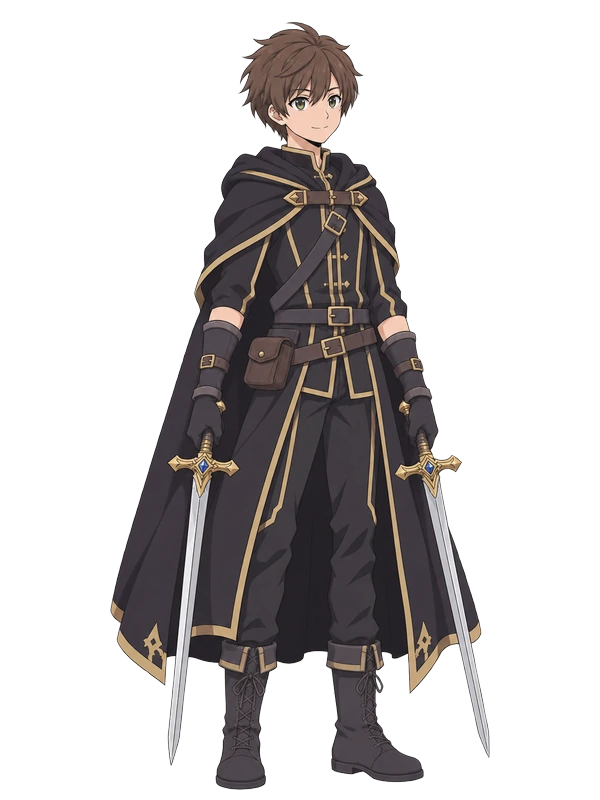
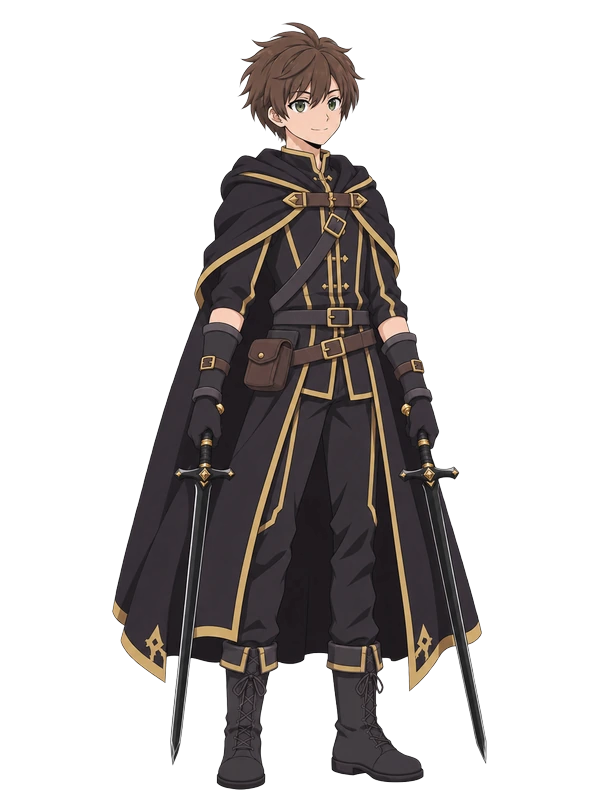
雙劍士美術重畫：兩把黑劍、突進斬姿勢（職業仍隱藏）
Claude-Session: https://claude.ai/code/session_014oWtzJimN2qi28cgaLB2Wn

diff --git a/sw.js b/sw.js
@@ -1,4 +1,4 @@
-const C='ao-art-v85';
+const C='ao-art-v86';
 self.addEventListener('install',e=>self.skipWaiting());
 self.addEventListener('activate',e=>e.waitUntil(caches.keys().then(ks=>Promise.all(ks.filter(k=>k.startsWith('ao-art')&&k!==C).map(k=>caches.delete(k)))).then(()=>self.clients.claim())));
 const get=(req,n)=>fetch(req).catch(err=>n>0?new Promise(r=>setTimeout(r,800)).then(()=>get(req,n-1)):Promise.reject(err));

diff --git a/DEV_NOTES.md b/DEV_NOTES.md
@@ -447,3 +447,4 @@
 
 - 2026-11-26：使用者要求雙劍士**先隱藏不上線**。`CLS.dual.hide=1`，`CLSV()` 過濾創角與排行篩選；程式與美術都留著，要開放時拿掉 `hide:1` 並補回更新公告。
 - 2026-11-26：雙劍士補圖：九個技能圖示 `skill_db_*`（一張九宮格切開）、躍起斬 `an_dual_*_s2` 重畫成單張（劍完整入鏡）。職業仍隱藏。
+- 2026-11-26：雙劍士改成**兩把黑劍**（劍身黑、刃口銀線、黑護手配金），立繪／頭像／s1／s2／dm 與九個圖示全部重畫，每個姿勢單獨一張圖（不再用三格表切）。s1 改成壓低突進、一劍前刺一劍後拉。表情三張沒有武器，沿用。職業仍隱藏。
